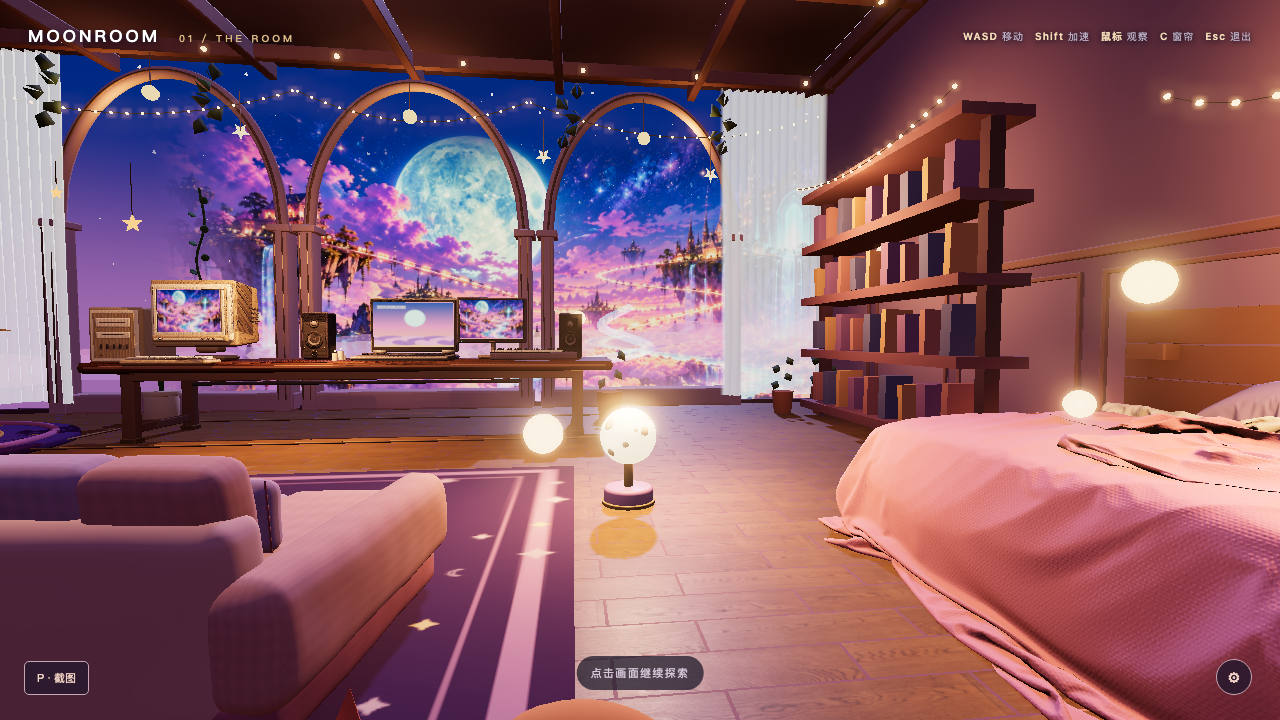
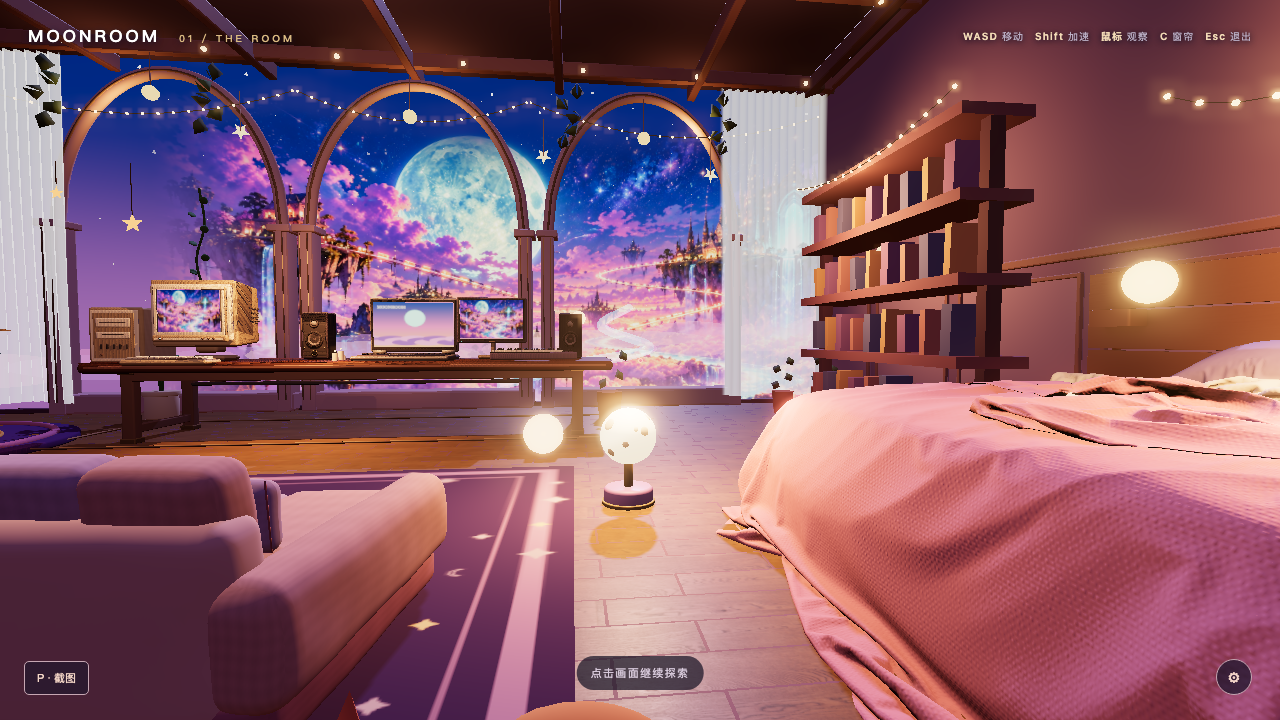
Scale bed to 2.1x, move sleeping fox and bed lights clear of the larger bed

Changed region(s): [[0.5625, 0.3361, 1.0, 1.0], [0.4062, 0.9778, 0.4375, 1.0], [0.0938, 0.1528, 0.125, 0.1833]]

diff --git a/src/scene/Furniture.jsx b/src/scene/Furniture.jsx
@@ -50,7 +50,7 @@ function Rug(){
 
 // E01: "Messy bed 2.0" by thethieme (Sketchfab, CC BY 4.0, credit in ASSETS.md), recoloured to the
 // Moonroom palette. Base maps are dropped (they bake the original grey/black look); normal and
-// roughness maps keep the fabric folds and wood grain. Scaled 1.7x so it reads as the room's big dream bed.
+// roughness maps keep the fabric folds and wood grain. Scaled 2.1x: the room's furniture is ~1.7x real scale, and the bed is deliberately oversized beyond that as the dream bed.
 const BED_TINTS = {
   Nordli_Cover: { color: new THREE.Color('#d98fae'), map: null },     // draped throw: rose knit
   Nordli_Comforter: { color: new THREE.Color('#f3e4dc'), map: null }, // folded duvet: cream
@@ -66,7 +66,7 @@ function Bed() {
     url="/assets/models/bed/messy-bed-2.glb"
     position={FURNITURE.bed.position}
     rotation={[0, -Math.PI / 2, 0]}
-    scale={1.7}
+    scale={2.1}
     axisCorrection={false}
     nodeOverrides={BED_TINTS}
     fallbackScale={1.5}
@@ -113,7 +113,7 @@ function Details(){return <>
   <Plant position={[-9.25,0,1.8]} scale={1.05}/><Plant position={[4.3,0,-5.45]} scale={.8}/>
   {[-6.4,-3.6,3.4,7.2].map((x,i)=><GlowOrb key={i} position={[x,1.2,4.9-i*.8]} color="#ffc08a" size={.1} intensity={2.4}/>)}
   {[-7,-4,3.5,7].map((x,i)=><group key={i} position={[x,7.2,-6.6]}>{Array.from({length:5},(_,j)=><mesh key={j} position={[Math.sin(j*2.4+i)*.18,-j*.28,0]} rotation-z={j*.7}><sphereGeometry args={[.19,.1,.08,8,6]}/><meshStandardMaterial color={j%2?'#63875e':'#536b55'}/></mesh>)}</group>)}
-  <GlowOrb position={[8.9,2.2,1.5]} color="#ffc47b" size={.2} intensity={4}/>
+  <GlowOrb position={[9.4,2.14,.7]} color="#ffc47b" size={.15} intensity={4}/>
 </>}
 
 export default function Furniture({hit}) {

diff --git a/src/lighting/CinematicLighting.jsx b/src/lighting/CinematicLighting.jsx
@@ -21,7 +21,7 @@ function GoldenLights({ settings, quality }) {
     <pointLight position={[4.15, 2.05, .55]} color="#ffbd78" intensity={w * .7} distance={5} decay={2}/>
     <pointLight position={[-8.2, 3.0, -1.6]} color="#ffa95c" intensity={w * .45} distance={5.4} decay={2}/>
     <pointLight position={[6.6, 3.6, -2.8]} color="#ffbf80" intensity={w * .45} distance={5.5} decay={2}/>
-    <pointLight position={[7.4, 2.6, 4.4]} color="#ffb877" intensity={w * .5} distance={5.5} decay={2}/>
+    <pointLight position={[6.0, 4.2, 3.0]} color="#ffb877" intensity={w * .6} distance={6.5} decay={2}/>
     <pointLight position={[0, 5.4, 1.5]} color="#ffc995" intensity={w * .7} distance={12} decay={2}/>
   </>
 }

diff --git a/src/config/scene.js b/src/config/scene.js
@@ -49,7 +49,7 @@ export const QA_LOOKS = {
 }
 
 export const FURNITURE = {
-  bed: { position: [7.9, 0, 3.0], size: [4.1, 1.15, 4.6] },
+  bed: { position: [7.6, 0, 3.0], size: [4.5, 1.2, 5.7] },
   bookshelf: { position: [9.05, 0, -3.1], size: [1.25, 4.8, 5.1] },
   desk: { position: [0.1, 0, -4.25], size: [8.2, 1.25, 1.7] },
   drums: { position: [-7.1, 0, -2.8], size: [4.2, 2.2, 3.8] },
@@ -75,7 +75,7 @@ export const INTERACTIONS = {
 }
 
 export const FOX_HINTS = [
-  { name: '眠眠', position: [7.9, 0, 5.7], radius: 1.4 },
+  { name: '眠眠', position: [6.0, 0, 6.7], radius: 1.4 },
   { name: '云团', position: [3.25, 0, 4.45], radius: 1.5 },
 ]
 

diff --git a/src/scene/Foxes.jsx b/src/scene/Foxes.jsx
@@ -23,6 +23,6 @@ function Fox({ position, scale = 1, rotation = 0, sleeping = false, phase = 0 })
 }
 
 export default function Foxes() { return <>
-  <Fox position={[7.9,0,5.7]} scale={.54} rotation={-1.4} sleeping phase={0} />
+  <Fox position={[6.0,0,6.7]} scale={.54} rotation={-1.4} sleeping phase={0} />
   <Fox position={[3.25,0,4.45]} scale={.54} rotation={-1.15} phase={1.8} />
 </> }

diff --git a/assets/moonroom_asset_dependencies.md b/assets/moonroom_asset_dependencies.md
@@ -18,7 +18,7 @@ Active/available core GLBs:
 | --- | --- | --- |
 | D01 drum | `public/assets/models/acoustic-drum-kit.glb` / `src/scene/DrumKit.jsx` | **Protected default.** Position `[-7.1,0,-2.8]`; 4.2×2.2×3.8 m simplified collider; `drums` interaction; eight roots `Kick`, `Snare`, `HiHat_Top`, `Tom_One`, `Tom_Two`, `Floor_Tom`, `Crash`, `Ride`. `assets-source/drums/art-katja/` and `public/assets/models/candidates/...` are opt-in candidate material, not proof that the default was replaced. |
 | C02 CRT | `public/assets/models/vintage-crt.glb` / `Workstation.jsx` | Active, positioned `[-2.65,1.22,-4.25]` at scale 0.72. `computer` ID. Dynamic screen is a runtime plane, so retain its separate surface and camera pose. |
-| E01 bed | `public/assets/models/bed/messy-bed-2.glb` (CC BY 4.0, thethieme) / `Furniture.jsx` | **Active since 2026-10-22** at `[7.9,0,3]`, Y rotation −π/2, uniform scale 1.7, footprint 4.1×4.6 m, runtime recolour via `nodeOverrides`. Old Moon Nest behind `?bedLegacy=1`. |
+| E01 bed | `public/assets/models/bed/messy-bed-2.glb` (CC BY 4.0, thethieme) / `Furniture.jsx` | **Active since 2026-10-22** at `[7.6,0,3]`, Y rotation −π/2, uniform scale 2.1 (room furniture runs ~1.7× real scale vs the 1.68 m eye height; the bed is deliberately larger), footprint 4.5×5.7 m, runtime recolour via `nodeOverrides`. Old Moon Nest behind `?bedLegacy=1`. |
 | F01 lounge | `public/assets/models/lounge/cloud-sofa.glb` / `Lounge.jsx` | **Active since 2026-10-22** at `[1.3,0,3]`, seat facing the windows, scale 0.78; `beanbag` interaction kept, 2.85×1.9 m footprint. Old `reclining-lounge.glb` behind `?loungeLegacy=1`. |
 | Drum corner | `assets-source` build script → `public/assets/models/drum-corner.glb` / `DrumCorner.jsx` | Active, follows D01 position. Contains rug, lamp, plants, shelf and curtains; audit before splitting to avoid duplicate visible instances. |
 | Moon lamp | `assets-source/lounge/moon-breathing-lamp.blend` → GLB / `DreamLoungeProps.jsx` | Active decorative light, separate from the reference pack's large moon. |

diff --git a/ASSETS.md b/ASSETS.md
@@ -22,7 +22,7 @@
 
 | 文件 | 来源 | 许可证 / 署名 |
 | --- | --- | --- |
-| `public/assets/models/bed/messy-bed-2.glb` | [“Messy bed 2.0 (with wall mounted backboard)” by thethieme](https://sketchfab.com/3d-models/messy-bed-20-with-wall-mounted-backboard-a2b2645701c94fa49e65661806219c6b)，用户提供的转换 GLB；原始文件保存在 `assets-source/third-party/sketchfab-messy-bed-2/original.glb` | [Creative Commons Attribution 4.0](https://creativecommons.org/licenses/by/4.0/)；分发时必须保留署名。项目只在运行时修改颜色（去掉原底色贴图、保留法线/粗糙度）、放大 1.7 倍并调整朝向，未改动网格 |
+| `public/assets/models/bed/messy-bed-2.glb` | [“Messy bed 2.0 (with wall mounted backboard)” by thethieme](https://sketchfab.com/3d-models/messy-bed-20-with-wall-mounted-backboard-a2b2645701c94fa49e65661806219c6b)，用户提供的转换 GLB；原始文件保存在 `assets-source/third-party/sketchfab-messy-bed-2/original.glb` | [Creative Commons Attribution 4.0](https://creativecommons.org/licenses/by/4.0/)；分发时必须保留署名。项目只在运行时修改颜色（去掉原底色贴图、保留法线/粗糙度）、放大 2.1 倍并调整朝向，未改动网格 |
 
 完整署名文本：`“Messy bed 2.0 (with wall mounted backboard)” (https://sketchfab.com/3d-models/messy-bed-20-with-wall-mounted-backboard-a2b2645701c94fa49e65661806219c6b) by thethieme is licensed under Creative Commons Attribution (http://creativecommons.org/licenses/by/4.0/).`
 
